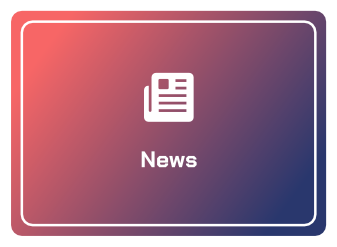
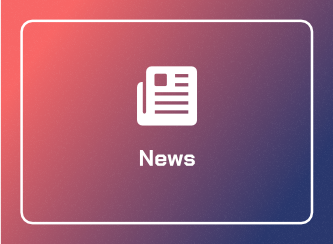
update news cards

Changed region(s): [[0.0, 0.0, 1.0, 1.0], [0.3904, 0.2582, 0.6006, 0.5164], [0.4204, 0.6025, 0.6006, 0.6885]]

diff --git a/src/NewsCard.tsx b/src/NewsCard.tsx
@@ -13,8 +13,8 @@ type Card = {
 };
 
 const NewsCard = ({ card, cardIndex, revealCard }: Card) => {
-  const cardHeight = 246.6;
-  const cardWidth = 336.6;
+  const cardHeight = 244;
+  const cardWidth = 333;
   const margin = '12px';
   const borderRadius = '12px';
 
@@ -22,8 +22,8 @@ const NewsCard = ({ card, cardIndex, revealCard }: Card) => {
     const x = (newsNumber - 1) % 10;
     const y = (newsNumber - 1 - x) / 10;
 
-    const xSize = -cardWidth;
-    const ySize = -cardHeight;
+    const xSize = -cardWidth - 3.9;
+    const ySize = -cardHeight - 2.8;
 
     const xPx = x * xSize;
     const yPx = y * ySize;
